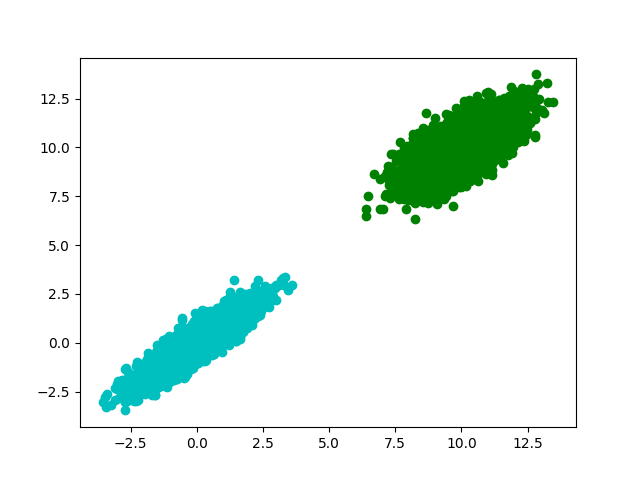
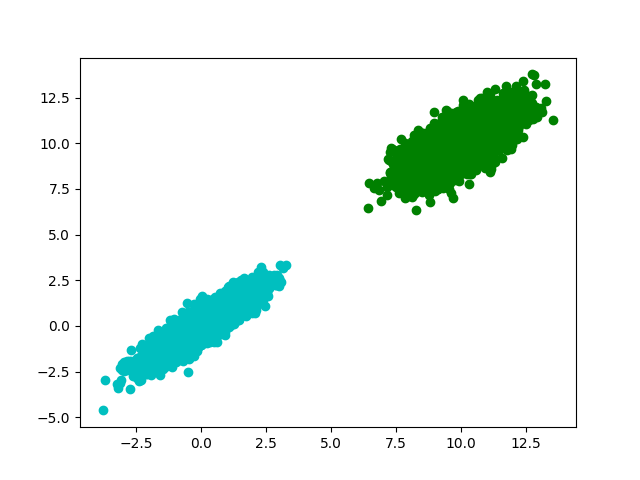
little modify kohon, maybe there's something wrong

diff --git a/kohonen_network/kohonen_network.py b/kohonen_network/kohonen_network.py
@@ -53,11 +53,11 @@ class Data:
         plt.plot(data1.T[0], data1.T[1],'og')
         plt.plot(data0.T[0], data0.T[1],'oc')
         plt.savefig(draw_name)
-
+        plt.clf()
 
 class Kohonen:
     ### a kohonen network with only two layers, one is the 50 dims input, the other is the 2 dims output ###
-    def __init__(self, input_shape, output_dims, learn_rate=0.5, max_iter_data_times=10):
+    def __init__(self, input_shape, output_dims, learn_rate=0.5, max_iter_data_times=100):
         input_num, input_dims = input_shape
 
         self.input_dims = input_dims
@@ -67,14 +67,14 @@ class Kohonen:
         self.learn_rate = learn_rate
         self.max_iteration = input_num * max_iter_data_times
 
-    def get_winner( self, input_x ):
+    def cal_winner( self, input_x ):
         neuron = np.zeros(self.output_dims)
         for ni in range( neuron.shape[0] ):
             neuron[ni] = np.vdot(self.weights[:,ni], input_x)
         winner = np.argmax(neuron)
-        return winner
+        return neuron, winner
 
-    def update_weight( self, winner, input_x, attempts_thres=0.01 ):
+    def update_weight( self, winner, input_x, attempts_thres=1e-3 ):
         step = self.learn_rate*( input_x - self.weights[:,winner] )
         if ( np.linalg.norm(step) < attempts_thres ):
             return False
@@ -89,7 +89,7 @@ class Kohonen:
         for i in range( self.max_iteration ):
             #print(i, end=' ')
             input_x = data[i%data.shape[0]] / np.linalg.norm(data[i%data.shape[0]])
-            winner = self.get_winner( input_x )
+            _, winner = self.cal_winner( input_x )
             if_update = self.update_weight( winner, input_x )
             self.learn_rate -= i/self.max_iteration
             if(not if_update):
@@ -98,11 +98,12 @@ class Kohonen:
         print('End of all iteration.')
 
     def predict( self, data ):
+        predict_data = np.empty(( data.shape[0], self.output_dims ))
         predict_label = np.empty( data.shape[0], dtype=np.int32 )
         for i in range( data.shape[0] ):
-            input_x = data[i]
-            predict_label[i] = self.get_winner( input_x )
-        return predict_label
+            input_x = data[i] / np.linalg.norm(data[i])
+            predict_data[i], predict_label[i] = self.cal_winner( input_x )
+        return predict_data, predict_label
 
 data = Data()
 data.get_dataset( 'data0.npy', 'data1.npy' )
@@ -112,9 +113,10 @@ output_dims = len(set(data.train_label.flatten()))
 kohonen = Kohonen( input_shape, output_dims)
 
 kohonen.fit( data.train_data )
-predict_label = kohonen.predict( data.test_data )
+predict_data, predict_label = kohonen.predict( data.test_data )
 
 data.cal_error_rate( predict_label, data.test_label )
 
 data.draw( 'test_groundtruth.png', data.test_data, data.test_label )
 data.draw( 'test_predict.png', data.test_data, predict_label )
+data.draw( 'test_predict_2D.png', predict_data, predict_label )
